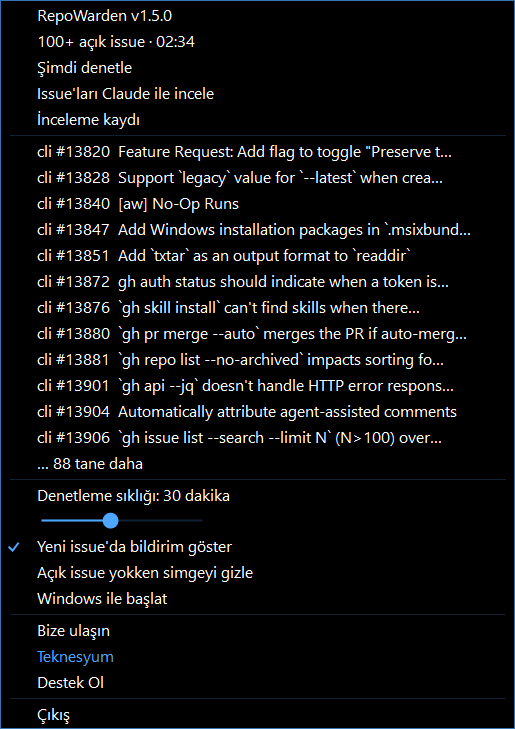
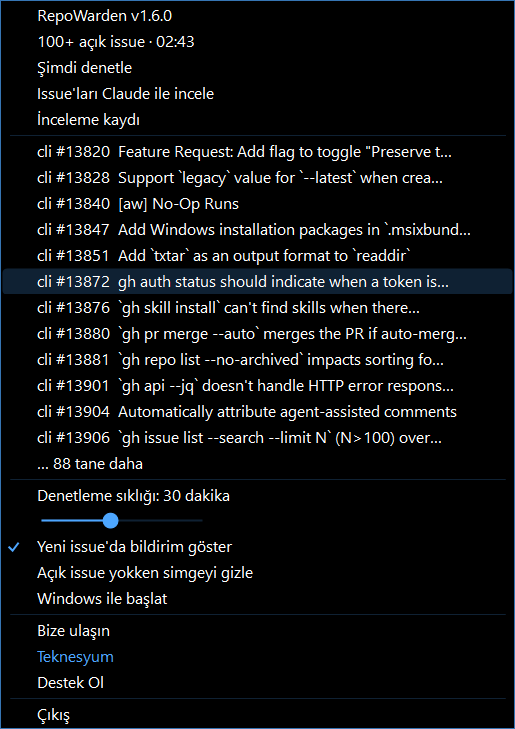
Show the Claude review live in a window
The review streams each issue, the files Claude opens and the verdict into a themed window that can be closed and reopened from the menu.

Changed region(s): [[0.0, 0.3621, 1.0, 0.4225], [0.3417, 0.0302, 0.3728, 0.0604], [0.2796, 0.0, 0.3107, 0.0302]]

diff --git a/src/RepoWarden.cs b/src/RepoWarden.cs
@@ -32,7 +32,7 @@ static class Surec
 {
     public const int Yok = -1, Zaman = -2;
 
-    public static int Kos(string dosya, string arg, string klasor, string girdi, int sure, out string cikti)
+    public static int Kos(string dosya, string arg, string klasor, string girdi, int sure, Action<string> satir, out string cikti)
     {
         cikti = "";
         System.Text.StringBuilder sb = new System.Text.StringBuilder();
@@ -50,7 +50,7 @@ static class Surec
         {
             using (System.Diagnostics.Process p = System.Diagnostics.Process.Start(psi))
             {
-                p.OutputDataReceived += (s, e) => { if (e.Data != null) lock (sb) sb.AppendLine(e.Data); };
+                p.OutputDataReceived += (s, e) => { if (e.Data == null) return; lock (sb) sb.AppendLine(e.Data); if (satir != null) satir(e.Data); };
                 p.ErrorDataReceived += (s, e) => { };
                 p.BeginOutputReadLine();
                 p.BeginErrorReadLine();
@@ -73,7 +73,7 @@ static class Gh
 {
     public const int Yok = Surec.Yok, Zaman = Surec.Zaman, Sinir = 100;
 
-    public static int Kos(string arg, out string cikti) { return Surec.Kos("gh", arg, null, null, 60000, out cikti); }
+    public static int Kos(string arg, out string cikti) { return Surec.Kos("gh", arg, null, null, 60000, null, out cikti); }
 
     public static List<Sorun> Ac(string hesap, out int kod)
     {
@@ -102,11 +102,11 @@ static class Gh
 
 class Uygulama : ApplicationContext
 {
-    public const string Ad = "RepoWarden", Surum = "1.5.0";
+    public const string Ad = "RepoWarden", Surum = "1.6.0";
     const string RunAnahtar = @"Software\Microsoft\Windows\CurrentVersion\Run";
     const string AyarAnahtar = @"Software\" + Ad;
     const string Depo = "https://github.com/Teknesyum/" + Ad;
-    const string ClaudeArg = "-p --tools Read,Grep,Glob --setting-sources local --strict-mcp-config --no-session-persistence --model sonnet --output-format json";
+    const string ClaudeArg = "-p --tools Read,Grep,Glob --setting-sources local --strict-mcp-config --no-session-persistence --model sonnet --output-format stream-json --verbose";
     const int ClaudeSure = 600000, NotSinir = 300, VarsayilanDk = 60, AcilisSuresi = 180000, MenuSinir = 12, BaslikSinir = 48;
 
     static readonly int[] Adimlar = { 5, 10, 15, 30, 60, 120, 240, 480 };
@@ -119,6 +119,8 @@ class Uygulama : ApplicationContext
     readonly string gorulenYol, incelenenYol, gunlukYol, goruntu, tamDenetim;
     readonly bool tekSefer;
 
+    readonly List<string> akis = new List<string>();
+    Izleme pencere;
     List<Sorun> sorunlar = new List<Sorun>();
     string durum = Dil.S("Denetleniyor…", "Checking…"), hesap, balonAdres;
     bool hata, denetliyor, inceliyor, bekleyen, goster = true;
@@ -173,7 +175,7 @@ class Uygulama : ApplicationContext
         menu.Items.Add(new ToolStripMenuItem(Ad + " v" + Surum) { Enabled = false });
         menu.Items.Add(new ToolStripMenuItem(durum) { Enabled = false });
         menu.Items.Add(new ToolStripMenuItem(Dil.S("Şimdi denetle", "Check now"), null, (s, e) => Denetle()));
-        menu.Items.Add(new ToolStripMenuItem(Dil.S("Issue'ları Claude ile incele", "Review issues with Claude"), null, (s, e) => Incele()) { Enabled = sorunlar.Count > 0 && !inceliyor, ToolTipText = Dil.S("Her yeni issue için Claude'u bir kez çalıştırır; gerekeni deponun defterine yazar", "Runs Claude once per new issue and writes what needs doing to the repository's ledger") });
+        menu.Items.Add(new ToolStripMenuItem(Dil.S("Issue'ları Claude ile incele", "Review issues with Claude"), null, (s, e) => Incele()) { Enabled = sorunlar.Count > 0 || inceliyor, ToolTipText = Dil.S("Her yeni issue için Claude'u bir kez çalıştırır; gerekeni deponun defterine yazar", "Runs Claude once per new issue and writes what needs doing to the repository's ledger") });
         if (File.Exists(gunlukYol)) menu.Items.Add(new ToolStripMenuItem(Dil.S("İnceleme kaydı", "Review log"), null, (s, e) => Git(gunlukYol)));
         if (sorunlar.Count > 0)
         {
@@ -284,7 +286,7 @@ class Uygulama : ApplicationContext
 
     void Incele()
     {
-        if (inceliyor) return;
+        if (inceliyor) { PencereAc(); return; }
         string kok = ProjeKok();
         if (kok == null || !Directory.Exists(kok))
         {
@@ -299,9 +301,14 @@ class Uygulama : ApplicationContext
         inceliyor = true;
         List<Sorun> liste = sorunlar.ToList();
         MenuKur();
+        akis.Clear();
+        if (pencere != null && !pencere.IsDisposed) pencere.Close();
+        PencereAc();
+        Izle(string.Format(Dil.S("İnceleme başladı: {0} açık issue", "Review started: {0} open issues"), liste.Count));
+        Action<string> yaz = s => ui.Post(__ => Izle(s), null);
         ThreadPool.QueueUserWorkItem(_ =>
         {
-            int yazildi = 0, gereksiz = 0, klasorsuz = 0, basarisiz = 0;
+            int yazildi = 0, gereksiz = 0, klasorsuz = 0, basarisiz = 0, onceki = 0;
             bool claudeYok = false;
             try
             {
@@ -309,25 +316,53 @@ class Uygulama : ApplicationContext
                 try { if (File.Exists(incelenenYol)) foreach (string s in File.ReadAllLines(incelenenYol)) incelenen.Add(s); } catch { }
                 foreach (Sorun so in liste)
                 {
-                    if (incelenen.Contains(so.Adres)) continue;
+                    if (incelenen.Contains(so.Adres)) { onceki++; continue; }
                     string ad = so.Depo + " #" + so.No;
                     string klasor = System.Text.RegularExpressions.Regex.IsMatch(so.Depo, "^[A-Za-z0-9_-][A-Za-z0-9._-]*$") ? Path.Combine(kok, so.Depo) : null;
-                    if (klasor == null || !Directory.Exists(Path.Combine(klasor, ".git"))) { klasorsuz++; Gunluk(ad, Dil.S("yerel klasör yok", "no local folder")); continue; }
+                    if (klasor == null || !Directory.Exists(Path.Combine(klasor, ".git"))) { klasorsuz++; Gunluk(ad, Dil.S("yerel klasör yok", "no local folder")); yaz(ad + "  " + Dil.S("yerel klasör yok, atlandı", "no local folder, skipped")); continue; }
                     ui.Post(__ => DurumYaz(Dil.S("İnceleniyor: ", "Reviewing: ") + ad), null);
-                    string govde, yanit;
-                    if (Gh.Kos("issue view " + so.Adres + " --json title,body,author,comments", out govde) != 0) { basarisiz++; Gunluk(ad, Dil.S("issue okunamadı", "could not read the issue")); continue; }
-                    int kod = Surec.Kos("claude", ClaudeArg, klasor, Istem(so, govde), ClaudeSure, out yanit);
-                    if (kod == Surec.Yok) { claudeYok = true; basarisiz++; Gunluk(ad, Dil.S("Claude Code (claude) bulunamadı", "Claude Code (claude) not found")); break; }
-                    if (kod != 0) { basarisiz++; Gunluk(ad, Dil.S("Claude yanıt vermedi", "Claude did not answer") + " (" + kod + ")"); continue; }
+                    yaz("");
+                    yaz(ad + "  " + TekSatir(so.Baslik, NotSinir));
+                    yaz("  " + Dil.S("issue okunuyor", "reading the issue"));
+                    string govde, yanit, sonuc = null;
+                    if (Gh.Kos("issue view " + so.Adres + " --json title,body,author,comments", out govde) != 0) { basarisiz++; Gunluk(ad, Dil.S("issue okunamadı", "could not read the issue")); yaz("  " + Dil.S("issue okunamadı", "could not read the issue")); continue; }
+                    yaz("  " + Dil.S("Claude inceliyor", "Claude is reviewing"));
+                    Action<string> dinle = l =>
+                    {
+                        try
+                        {
+                            Dictionary<string, object> d = new System.Web.Script.Serialization.JavaScriptSerializer().DeserializeObject(l) as Dictionary<string, object>;
+                            if (d == null || !d.ContainsKey("type")) return;
+                            string tip = Convert.ToString(d["type"]);
+                            if (tip == "result") { sonuc = l; return; }
+                            if (tip != "assistant") return;
+                            Dictionary<string, object> m = d["message"] as Dictionary<string, object>;
+                            foreach (object o in (object[])m["content"])
+                            {
+                                Dictionary<string, object> p = o as Dictionary<string, object>;
+                                if (p == null || Convert.ToString(p["type"]) != "tool_use") continue;
+                                Dictionary<string, object> g = p["input"] as Dictionary<string, object>;
+                                string hedef = "";
+                                foreach (string a in new[] { "file_path", "pattern", "path" }) if (g != null && g.ContainsKey(a)) { hedef = Convert.ToString(g[a]); break; }
+                                if (hedef.StartsWith(klasor, StringComparison.OrdinalIgnoreCase)) hedef = hedef.Substring(klasor.Length).TrimStart('\\', '/');
+                                yaz("    " + Convert.ToString(p["name"]) + "  " + TekSatir(hedef, NotSinir));
+                            }
+                        }
+                        catch { }
+                    };
+                    int kod = Surec.Kos("claude", ClaudeArg, klasor, Istem(so, govde), ClaudeSure, dinle, out yanit);
+                    if (kod == Surec.Yok) { claudeYok = true; basarisiz++; Gunluk(ad, Dil.S("Claude Code (claude) bulunamadı", "Claude Code (claude) not found")); yaz("  " + Dil.S("Claude Code (claude) bulunamadı", "Claude Code (claude) not found")); break; }
+                    if (kod != 0) { basarisiz++; Gunluk(ad, Dil.S("Claude yanıt vermedi", "Claude did not answer") + " (" + kod + ")"); yaz("  " + Dil.S("Claude yanıt vermedi", "Claude did not answer") + " (" + kod + ")"); continue; }
                     string not;
-                    bool gerek = Karar(yanit, out not);
+                    bool gerek = Karar(sonuc ?? "", out not);
                     if (gerek) { DeftereYaz(klasor, so, not); yazildi++; } else gereksiz++;
+                    yaz("  → " + (gerek ? Dil.S("deftere yazıldı", "written to the ledger") : Dil.S("gerek yok", "nothing needed")) + (not.Length > 0 ? ": " + not : ""));
                     Gunluk(ad, (gerek ? Dil.S("deftere yazıldı", "written to the ledger") : Dil.S("gerek yok", "nothing needed")) + (not.Length > 0 ? ": " + not : ""));
                     incelenen.Add(so.Adres);
                     try { File.AppendAllText(incelenenYol, so.Adres + Environment.NewLine); } catch { }
                 }
             }
-            catch (Exception e) { basarisiz++; Gunluk("-", e.Message); }
+            catch (Exception e) { basarisiz++; Gunluk("-", e.Message); yaz(e.Message); }
             string ozet = claudeYok ? Dil.S("Bu sistemde Claude Code kurulu olmalı: komut satırında claude bulunamadı", "Claude Code must be installed on this system: claude was not found on the command line")
                 : yazildi + gereksiz + klasorsuz + basarisiz == 0
                 ? Dil.S("İncelenecek yeni issue yok", "No new issues to review")
@@ -336,12 +371,29 @@ class Uygulama : ApplicationContext
             {
                 inceliyor = false;
                 if (tekSefer) { Kapat(); return; }
+                Izle("");
+                if (onceki > 0) Izle(string.Format(Dil.S("{0} issue daha önce incelenmişti", "{0} issues were reviewed before"), onceki));
+                Izle(ozet);
                 DurumYaz(ozet + " · " + DateTime.Now.ToString("HH:mm"));
                 balonAdres = gunlukYol;
                 tepsi.Visible = true;
                 tepsi.ShowBalloonTip(10000, claudeYok ? Dil.S("Claude Code gerekli", "Claude Code is required") : Dil.S("İnceleme bitti", "Review finished"), ozet, claudeYok ? ToolTipIcon.Warning : ToolTipIcon.Info);
             }, null);
         });
+    }
+
+    void Izle(string s)
+    {
+        akis.Add(s);
+        if (pencere != null && !pencere.IsDisposed) pencere.Ekle(s);
+    }
+
+    void PencereAc()
+    {
+        if (tekSefer) return;
+        if (pencere == null || pencere.IsDisposed) pencere = new Izleme(akis);
+        pencere.Show();
+        pencere.Activate();
     }
 
     static string Istem(Sorun so, string govde)
@@ -511,6 +563,16 @@ class Uygulama : ApplicationContext
             using (Bitmap b = Resim(n, 12, false)) b.Save(Path.Combine(goruntu, "simge-" + n + "-cok.png"));
             using (Bitmap b = Resim(n, 0, true)) b.Save(Path.Combine(goruntu, "simge-" + n + "-uyari.png"));
         }
+        using (Izleme i = new Izleme(new[] { string.Format(Dil.S("İnceleme başladı: {0} açık issue", "Review started: {0} open issues"), 2), "", "RepoWarden #1  Show the time of the next check in the tray tooltip", "  " + Dil.S("issue okunuyor", "reading the issue"), "  " + Dil.S("Claude inceliyor", "Claude is reviewing"), "    Read  src\\RepoWarden.cs", "  → " + Dil.S("deftere yazıldı", "written to the ledger") }))
+        {
+            i.Show();
+            Application.DoEvents();
+            using (Bitmap b = new Bitmap(i.Width, i.Height))
+            {
+                i.DrawToBitmap(b, new Rectangle(0, 0, i.Width, i.Height));
+                b.Save(Path.Combine(goruntu, "inceleme.png"));
+            }
+        }
         menu.Show(new Point(40, 40));
         Application.DoEvents();
         using (Bitmap b = new Bitmap(menu.Width, menu.Height))
@@ -679,6 +741,36 @@ class Cubuk : Control
         Invalidate();
         if (Degisti != null) Degisti(this, EventArgs.Empty);
     }
+}
+
+class Izleme : Form
+{
+    readonly TextBox kutu = new TextBox();
+
+    public Izleme(IEnumerable<string> satirlar)
+    {
+        Text = Uygulama.Ad + ": " + Dil.S("İnceleme", "Review");
+        Font = Tema.Sans(Tema.FontSize2 * Tema.Olcek);
+        BackColor = Tema.Surface;
+        ForeColor = Tema.TextBody;
+        try { Icon = Icon.ExtractAssociatedIcon(Application.ExecutablePath); } catch { }
+        StartPosition = FormStartPosition.CenterScreen;
+        Size olcu = TextRenderer.MeasureText(new string('0', 80), Font);
+        ClientSize = new Size(olcu.Width, olcu.Height * 24);
+        Padding = new Padding(olcu.Height / 2);
+        kutu.Multiline = true;
+        kutu.ReadOnly = true;
+        kutu.TabStop = false;
+        kutu.BorderStyle = BorderStyle.None;
+        kutu.ScrollBars = ScrollBars.Vertical;
+        kutu.Dock = DockStyle.Fill;
+        kutu.BackColor = Tema.Surface;
+        kutu.ForeColor = Tema.TextBody;
+        Controls.Add(kutu);
+        foreach (string s in satirlar) Ekle(s);
+    }
+
+    public void Ekle(string s) { kutu.AppendText(s + Environment.NewLine); }
 }
 
 static class Etiket

diff --git a/README.tr.md b/README.tr.md
@@ -81,7 +81,7 @@ Teknesyum Base'in başlattığı dosya `RepoWarden.exe`. Bildirim alanında (saa
 - Kalkan hep oradadır; açık issue varsa sayı rozeti taşır: `+` dokuzdan fazla, `!` GitHub'a ulaşılamadı demektir.
 - Simgeye tıklayınca liste açılır. Bir satır o issue'yu tarayıcıda açar. *Şimdi denetle* beklemeyi atlar.
 - *Denetleme sıklığı* altındaki çubuk aralığı belirler: 5, 10, 15, 30 dakika ya da 1, 2, 4, 8 saat.
-- *Issue'ları Claude ile incele*, daha önce incelemediği her issue için Claude Code'u bir kez çalıştırır: o deponun bu makinedeki klasöründe ve yalnız okuma araçlarıyla. Issue'nun seni gerektirip gerektirmediğine Claude karar verir; gerektiriyorsa o deponun `.claude/acik.md` defterine tek cümlelik notla bir satır düşer. Bu makinede kurulu ve oturumu açık Claude Code'u kullanır, API anahtarı kullanmaz; `claude` yoksa uyarır; depolarının durduğu klasörü bir kez sorar.
+- *Issue'ları Claude ile incele*, daha önce incelemediği her issue için Claude Code'u bir kez çalıştırır: o deponun bu makinedeki klasöründe ve yalnız okuma araçlarıyla. Issue'nun seni gerektirip gerektirmediğine Claude karar verir; gerektiriyorsa o deponun `.claude/acik.md` defterine tek cümlelik notla bir satır düşer. Bu makinede kurulu ve oturumu açık Claude Code'u kullanır, API anahtarı kullanmaz; `claude` yoksa uyarır; her adımı bir pencerede canlı gösterir (issue, Claude'un açtığı dosyalar, karar); depolarının durduğu klasörü bir kez sorar.
 - *Yeni issue'da bildirim göster* varsayılan olarak kapalıdır. Açılınca yalnız daha önce görmediği issue için bildirim verir.
 - *Açık issue yokken simgeyi gizle* varsayılan olarak kapalıdır. Açılınca simge uygulama başladıktan sonra üç dakika görünür, sonra sayı sıfırken gizli kalır. Üç dakika daha için `RepoWarden.exe` dosyasını yeniden çalıştır.
 - *Windows ile başlat* ilk açılışta işaretlenir, kaldırılabilir. `--owner <ad>` başka bir hesabı ya da kuruluşu izler.

diff --git a/README.md b/README.md
@@ -81,7 +81,7 @@ A dry run: it prints the report and writes it to `reports/audit-<date>.md`. Add 
 - The shield is always there; with open issues it carries a count badge: `+` means more than nine, `!` means GitHub could not be reached.
 - Click the icon for the list. An entry opens that issue in the browser. *Check now* skips the wait.
 - The bar under *Check every* sets how often: 5, 10, 15 or 30 minutes, 1, 2, 4 or 8 hours.
-- *Review issues with Claude* runs Claude Code once for every issue it has not reviewed yet, inside your local clone of that repository and with read-only tools. Claude decides whether the issue needs you; if it does, a line with a one-sentence note goes into that repository's `.claude/acik.md` ledger. It uses the Claude Code installed and signed in on this machine, never an API key, warns if `claude` is missing, and asks once for the folder that holds your clones.
+- *Review issues with Claude* runs Claude Code once for every issue it has not reviewed yet, inside your local clone of that repository and with read-only tools. Claude decides whether the issue needs you; if it does, a line with a one-sentence note goes into that repository's `.claude/acik.md` ledger. It uses the Claude Code installed and signed in on this machine, never an API key, warns if `claude` is missing, shows each step live in a window (the issue, the files Claude opens, the verdict), and asks once for the folder that holds your clones.
 - *Notify on new issues* is off by default. Turned on, only issues it has not seen before raise a notification.
 - *Hide the icon when there are no open issues* is off by default. Turned on, the icon shows for three minutes after the app starts, then stays hidden while the count is zero. Start `RepoWarden.exe` again for another three minutes.
 - *Start with Windows* is switched on at first launch and can be unticked. `--owner <name>` watches another account or organisation.
